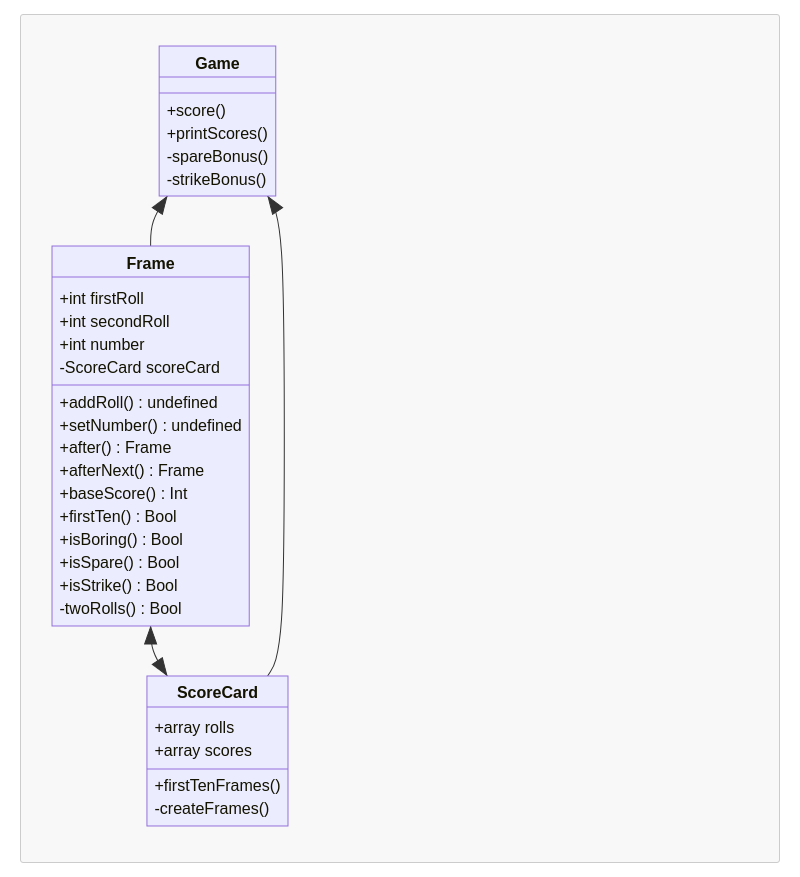
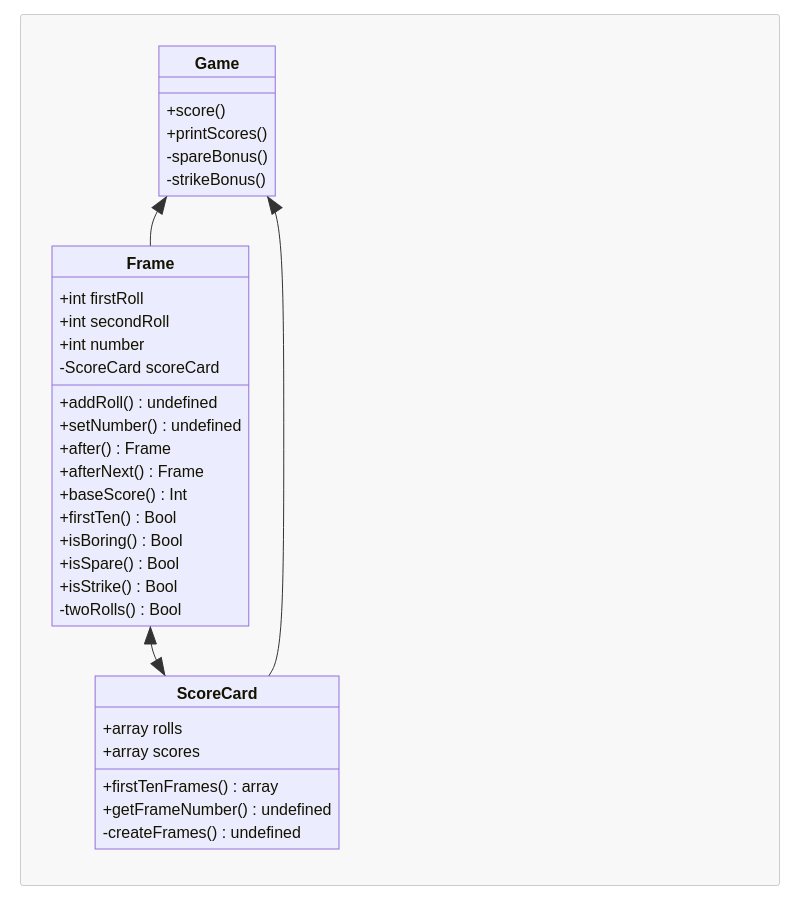
Adding after() function to Frame class

Changed region(s): [[0.0625, 0.0616, 0.4375, 0.9544], [0.4062, 0.7697, 0.4375, 0.8005], [0.2812, 0.6773, 0.3125, 0.7081]]

diff --git a/spec/FrameSpec.js b/spec/FrameSpec.js
@@ -7,6 +7,10 @@ class ScoreCardDouble {
     this.frames.push(frame);
     this.frames[this.frames.length - 1].setNumber(this.frames.length);
   }
+
+  getFrameNumber(num) {
+    return this.frames[num - 1];
+  }
 }
 
 describe('Frame', () => {
@@ -24,7 +28,6 @@ describe('Frame', () => {
 
     expect(frame.number).toBe(1);
     expect(frame2.number).toBe(2);
-    console.log(scoreCard)   
   });
 
   it('starts with no rolls', () => {
@@ -44,5 +47,11 @@ describe('Frame', () => {
 
     expect(frame.firstRoll).toBe(1);
     expect(frame.secondRoll).toBe(2);
+  });
+
+  it('can access the next frame', () => {
+    frame2 = new Frame(scoreCard);
+
+    expect(frame.after()).toBe(frame2);
   });
 });

diff --git a/src/frame.js b/src/frame.js
@@ -11,6 +11,10 @@ class Frame {
     this.firstRoll ? this.secondRoll = roll : this.firstRoll = roll
   }
 
+  after() {
+    return this.scoreCard.getFrameNumber(this.number + 1);
+  }
+
   setNumber(num) {
     this.number = num;
   }

diff --git a/CLASSES.md b/CLASSES.md
@@ -24,9 +24,10 @@
           +array rolls
           +array scores
 
-          +firstTenFrames()
+          +firstTenFrames() array
+          +getFrameNumber() undefined
 
-          -createFrames()
+          -createFrames() undefined
       }
 
       class Game{
